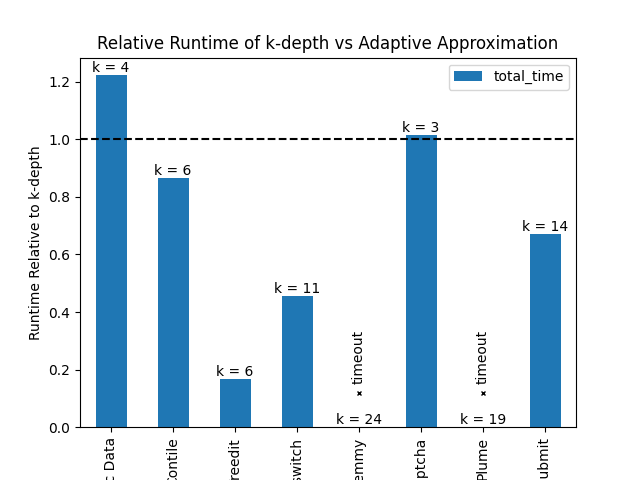
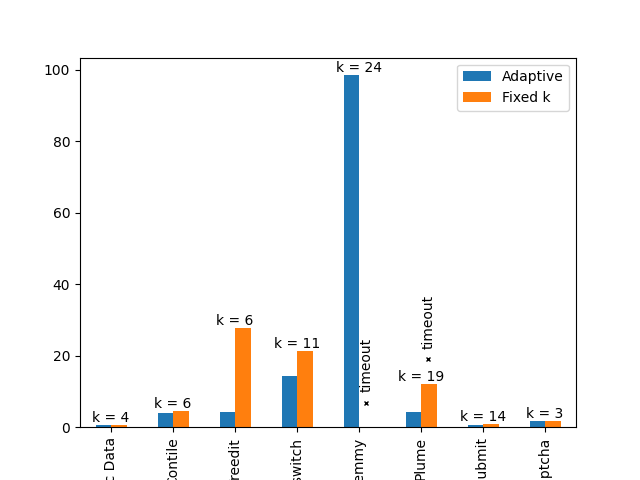
Update plotting scripts, regenerate graphs

diff --git a/plotting/plot.py b/plotting/plot.py
@@ -84,11 +84,11 @@ def main():
 
 @plot(output_ext=".png")
 def ide_ci_plot(outfile):
-    e = results[results['experiment'].isin(['ide', 'ci'])].copy()
+    e = results[results['experiment'].isin(['ws', 'ci'])].copy()
     e['io_time'] = e['serialization_time'] + e['deserialization_time']
     e['pdg_time'] = e['last_self_time'] - e['rustc_time'] - e['serialization_time']
     e['policy_time'] -= e['deserialization_time']
-    metrics = ['rustc_time', 'pdg_time', 'policy_time', 'io_time']
+    metrics = ['rustc_time', 'pdg_time', 'policy_time', 'serialization_time', 'deserialization_time']
     # This combines the repeated runs
     e = e.groupby(['experiment', 'application', 'package'], dropna=False)[metrics].mean()
     # This recombines the lemmy packages
@@ -100,17 +100,17 @@ def ide_ci_plot(outfile):
         [metrics].mean()\
         .rename(index=utils.rename, columns=utils.rename)\
         .plot.bar(ax=ax1, stacked=True)
-    plot1.set_title("CI Setup")
+    plot1.set_title("All Crates")
     plot1.set_ylabel("Runtime in s")
     plot1.set_xlabel("Application")
     
-    plot2 = e[e['experiment'] == 'ide']\
+    plot2 = e[e['experiment'] == 'ws']\
         .groupby('application')\
         [metrics].mean()\
-        .rename(index= lambda x: x.removesuffix("-ide"))\
+        .rename(index= lambda x: x.removesuffix("-ws"))\
         .rename(index=utils.rename, columns=utils.rename)\
         .plot.bar(ax=ax2, stacked=True)
-    plot2.set_title("IDE Setup")
+    plot2.set_title("Workspace Crates Only")
     
     plot2.set_xlabel("Application")
 
@@ -123,10 +123,12 @@ def per_controller_plot(outfile):
     metrics = ['ctrl_time', 'pdg_locs']
     # This combines the repeated runs
     e = e.groupby(['application', 'controller', 'package'], dropna=False)[metrics].mean()\
-        .rename(index=lambda x: x.removesuffix("-ide") if isinstance(x, str) else x)
+        .rename(index=lambda x: x.removesuffix("-ws") if isinstance(x, str) else x)
     e = e.reset_index()
     fig, ax = plt.subplots()
-    for a in e['application'].unique():
+    apps = e['application'].unique()
+    last = apps[apps != 'Lemmy']
+    for a in ['Lemmy'] + list(last):
         e[e['application'] == a].plot.scatter(ax=ax, x='pdg_locs', marker=utils.SYSTEM_MARKERS[a], y='ctrl_time', color=utils.SYSTEM_COLORS[a], label=utils.rename(a))
     ax.set_title("PDG Construction and Policy Time per Controller")
     ax.set_xlabel("LoC in PDG")
@@ -136,11 +138,12 @@ def per_controller_plot(outfile):
 
 @plot(output_ext=".png")
 def k_depth_plot(outfile):
-    e = all_results[all_results['experiment'].isin(['k-depth', 'ci'])].copy()
-    e['total_time'] = e['last_self_time'] + e['policy_time']
+    e0 = all_results[all_results['experiment'].isin(['k-depth', 'ci'])].copy()
+    e0['application'] = e0['application'].apply(utils.rename)
+    e0['total_time'] = e0['last_self_time'] + e0['policy_time']
     metrics = ['total_time', 'k_depth']
     # This combines the repeated runs
-    e = e.groupby(['experiment', 'application', 'package'], dropna=False)[metrics].mean()
+    e = e0.groupby(['experiment', 'application', 'package'], dropna=False)[metrics].mean()
     # This recombines the lemmy packages
     e = e.groupby(['experiment', 'application'])[metrics].aggregate({
         'total_time': 'sum',
@@ -148,36 +151,41 @@ def k_depth_plot(outfile):
     })
 
     k_depth_setting = {
-        'lemmy': 24,
-        'plume': 19,
+        'Lemmy': 24,
     }
 
-    e_k = e.loc['k-depth']
-    series = e.loc['ci'] / e_k
-    plot = series[['total_time']].rename(index=utils.rename).plot.bar()
-    plot.axhline(1.0, ls='--', color='k', label="no adaptive inlining")
+    frame = pd.DataFrame({
+        'Adaptive': e.loc['ci']['total_time'],
+        'Fixed k': e.loc['k-depth']['total_time'],
+    })#.rename(index=utils.rename)
+
+    plot = frame.plot.bar()
+
+    max_y = max(frame.max())
     
-    for (i, (app, row)) in enumerate(series.iterrows()):
-        val = row['total_time']
-        if np.isinf(val) or pd.isna(val):
-            val = 0
-            plot.plot(i, 0.12, color="black", marker='x', markersize=3)
-            plot.text(i, 0.15, "timeout", ha='center', va='bottom', rotation='vertical')
+    e_k = e.loc['k-depth']
+    for (i, (app, row)) in enumerate(frame.iterrows()):
+        k_val = row['Fixed k']
+        k_is_nn = np.isinf(k_val) or pd.isna(k_val)
+        if k_is_nn:
+            k_val = 0
+        if k_is_nn or e0[(e0['application'] == app) & (e0['experiment'] == 'k-depth')]['total_time'].hasnans:
+            offset = 0.12
+            plot.plot(i + offset, k_val + max_y * 0.07, color="black", marker='x', markersize=3)
+            plot.text(i + offset, k_val + max_y * 0.1, "timeout", ha='center', va='bottom', rotation='vertical')
         if app in e_k.index:
             k = e_k.loc[app]['k_depth']
         else:
             # Account for config where timeouts are commented out
             k = k_depth_setting[app]
+        val = max(k_val, row['Adaptive'])
         plot.text(i, val, "k = " + str(int(k)), ha='center', va='bottom')
-    plot.set_title("Relative Runtime of k-depth vs Adaptive Approximation")
-    plot.set_ylabel("Runtime Relative to k-depth")
-    plot.set_xlabel("Application")
 
     plt.savefig(outfile)
 
 @plot(output_ext=".png")
 def old_adaptive_plot(outfile):
-    e = all_results[all_results['experiment'].isin(['adaptive-depth', 'ide'])].copy()
+    e = all_results[all_results['experiment'].isin(['adaptive-depth', 'ws'])].copy()
     e['total_time'] = e['last_self_time'] + e['policy_time']
     metrics = ['total_time', 'k_depth']
     # This combines the repeated runs
@@ -188,9 +196,9 @@ def old_adaptive_plot(outfile):
         'k_depth': 'max',
     })
 
-    series = e.loc['ide'] / e.loc['adaptive-depth']
+    series = e.loc['ws'] / e.loc['adaptive-depth']
     plot = series[['total_time']]\
-        .rename(index= lambda x: x.removesuffix("-ide"))\
+        .rename(index= lambda x: x.removesuffix("-ws"))\
         .rename(index=utils.rename, columns=utils.rename)\
         .plot.bar(legend=False)
     plot.axhline(1.0, ls='--', color='k', label="no adaptive inlining")
@@ -217,27 +225,36 @@ def dependency_times(outfile):
 @plot(output_ext=".txt")
 def atomic_data_locs(outfile):
     e = all_results[all_results['experiment'].isin(['atomic-roll-forward'])].copy()
-    e_compiling = e[e['result'].notna()]
-    c = e_compiling['changed_lines']
-    c = c[c != 0]
-    with open(outfile, 'w') as f:
-        print("Statistics about checked commits", file=f)
-        print(file=f)
+    ws = e[e['application'] == 'roll-forward-atomic-ws']
+    cc = e[e['application'] == 'roll-forward-atomic']
+    assert ws.shape == cc.shape
+    ws_compiling = ws[ws['result'].notna()]
+    wsc = ws_compiling['changed_lines']
+    wsc = wsc[wsc != 0]
+    cc_compiling = cc[cc['result'].notna()]
+    ccc = cc_compiling['changed_lines']
+    with open(outfile, 'w') as outfile:
+        print("Statistics about checked commits\n", file=outfile)
         frame = pd.Series({
-            'Commits Checked': e.shape[0],
-            'Commits Compiling': e_compiling.shape[0],
-            'Avg Lines Touched': e_compiling['seen_locs'].mean(),
+            'Commits Checked': cc.shape[0],
+            'Commits Compiling': ws_compiling.shape[0],
+            'Avg Lines Touched Across All Crates': cc_compiling['seen_locs'].mean(),
+            'Avg Lines Touched in the Workspace': ws_compiling['seen_locs'].mean(),
         })
-        frame.to_string(buf=f)
-        print(file=f)
-        print("Statistics for commits that change code touched by Paralegal", file=f)
-        print(file=f)
-        c.aggregate(['count', 'min', 'max', 'mean']).rename({
+        frame.to_string(buf=outfile)
+        print(file=outfile)
+        print("Statistics for commits that change code touched by Paralegal\n", file=outfile)
+        frame2 = pd.DataFrame({
+            'LoC Including Deps': ccc,
+            'LoC Workspace': wsc,
+        })
+        frame2.aggregate(['count', 'min', 'max', 'mean']).rename({
             'count': 'Commits changing lines',
             'min': 'Smallest non-zero change',
             'max': 'Largest #LoC changed in single commit',
             'mean': 'Mean #Loc changed per non-zero change commit',
-        }).to_string(buf=f)
+        }).to_string(buf=outfile)
+
 
 plots = [
     ide_ci_plot,

diff --git a/plotting/utils.py b/plotting/utils.py
@@ -63,7 +63,14 @@ renamings_for_display = {
 def rename(n):
     return renamings_for_display.get(n, n)
 
-SYSTEM_COLORS = {
+def _expand_dict_w_rename(d):
+    return {
+        k1: v
+        for k, v in d.items()
+        for k1 in [k, rename(k)]
+    }
+
+SYSTEM_COLORS = _expand_dict_w_rename({
   'flow_time': 'C0',
   'policy_time': 'C6',
   'rustc_time': 'C11',
@@ -78,15 +85,15 @@ SYSTEM_COLORS = {
   "baseline": "C10",
   "opt": "C9",
   "mcaptcha": "C9",
-}
+})
 
-SYSTEM_MARKERS = {
-  "atomic-data": "^",
-  "plume": "v",
-  "freedit": "+",
-  "websubmit": "o",
-  "hyperswitch": "s",
-  "contile": "d",
-  "lemmy": "x",
-  "mcaptcha": "D",
-}
+SYSTEM_MARKERS = _expand_dict_w_rename({
+    "atomic-data": "^",
+    "plume": "v",
+    "freedit": "+",
+    "websubmit": "o",
+    "hyperswitch": "s",
+    "contile": "d",
+    "lemmy": "x",
+    "mcaptcha": "D",
+})
